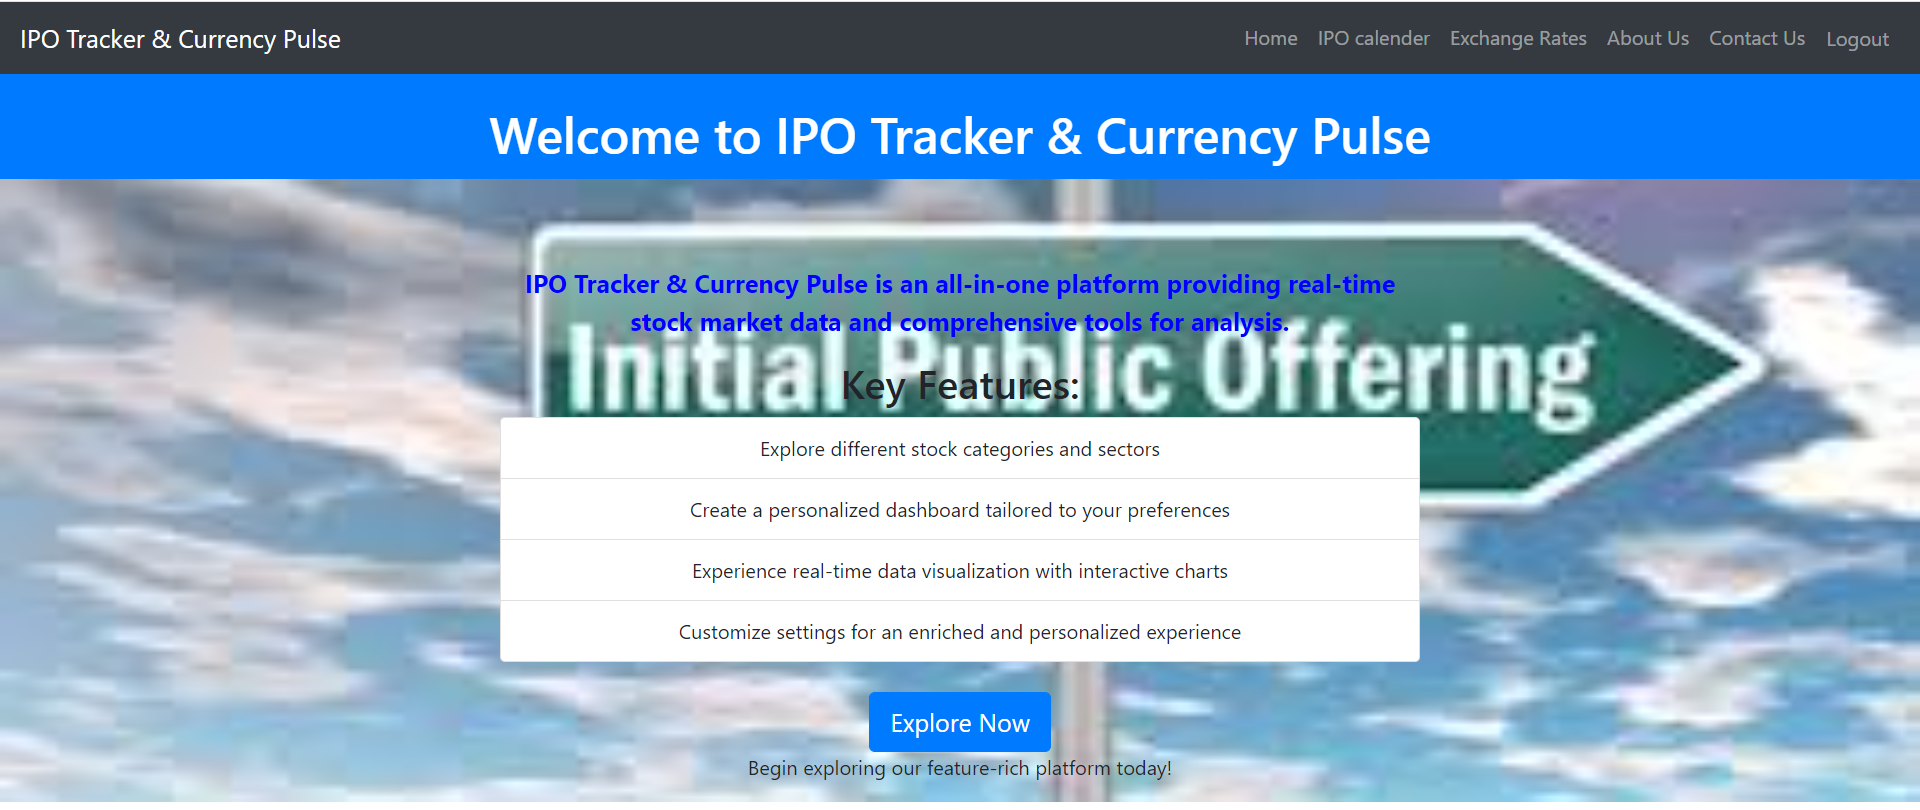
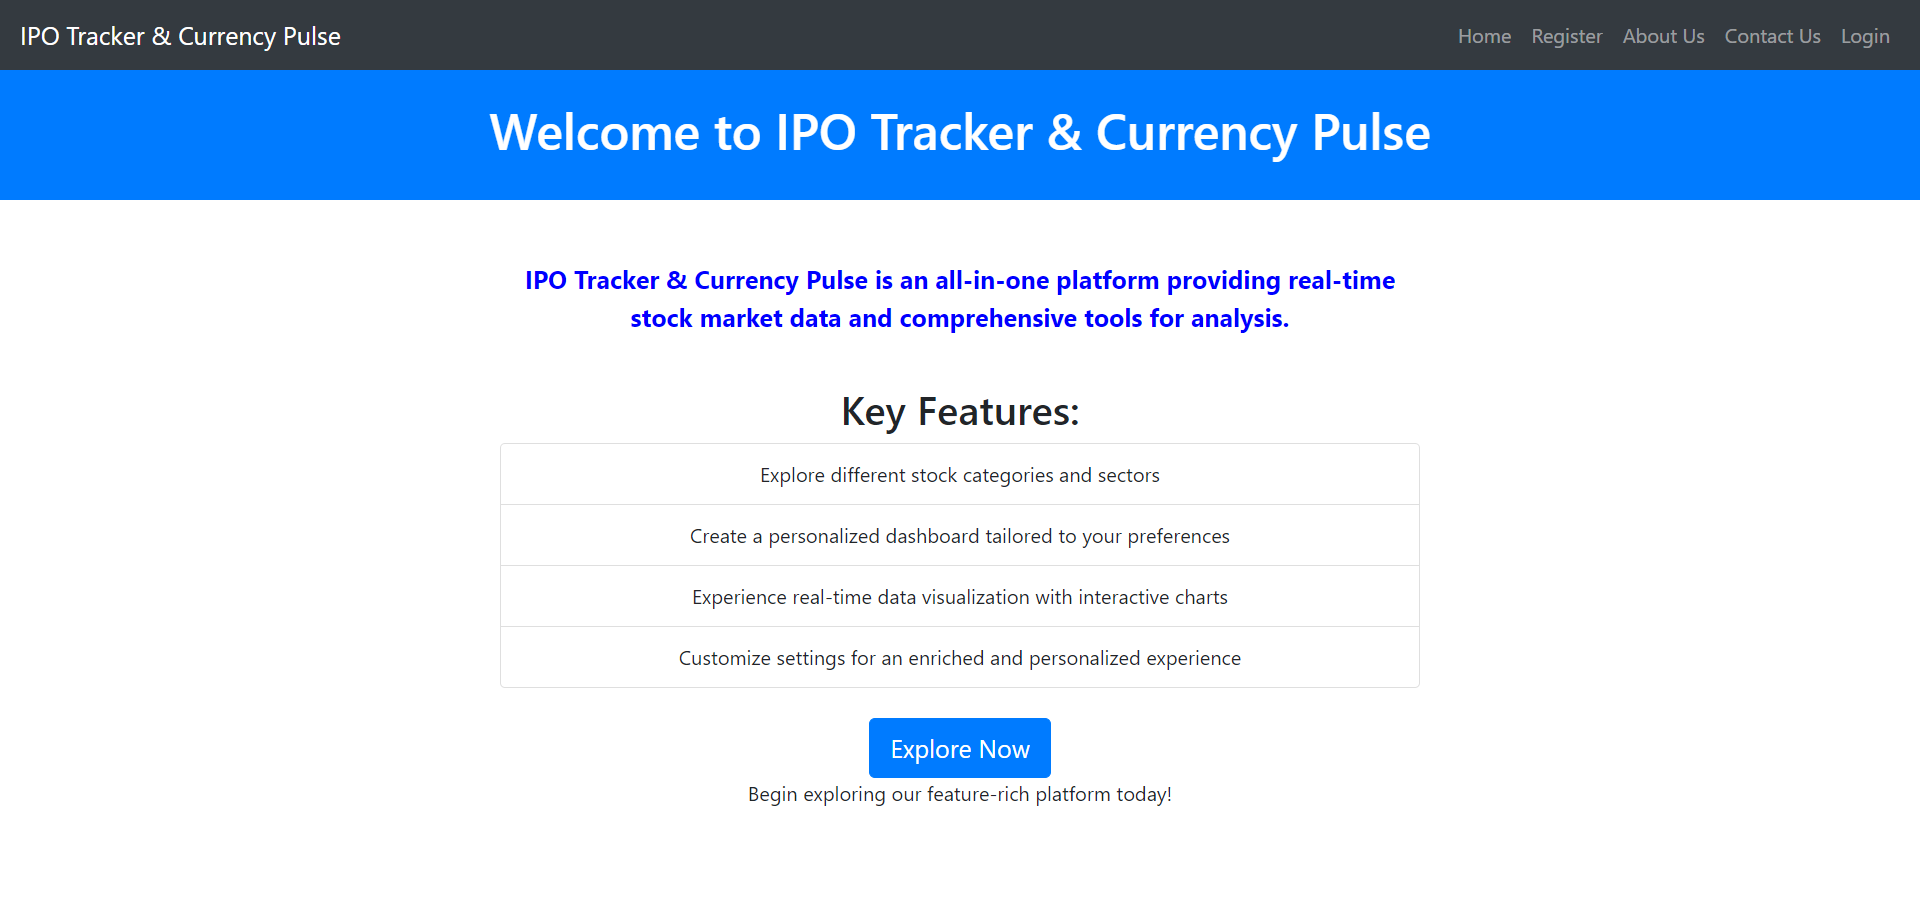
Updated image style

diff --git a/src/allComponents/AboutUs.js b/src/allComponents/AboutUs.js
@@ -16,11 +16,7 @@ function AboutUs() {
       <div className="row" style={{ maxWidth: '900px', margin: '0 auto' }}>
         <div className="column" >
           <div className="card">
-            <img
-              src="../../images/jane.jpg"
-              alt="Jane"
-              style={{ width: '100%' }}
-            />
+          <div className='jane'></div>
             <div className="container">
               <h2>Jane Doe</h2>
               <p className="title">CEO & Founder</p>
@@ -35,11 +31,7 @@ function AboutUs() {
 
         <div className="column">
           <div className="card">
-            <img
-              src="../../images/mike.jpg"
-              alt="Mike"
-              style={{ width: '100%' }}
-            />
+            <div className='mike'></div>
             <div className="container">
               <h2>Mike Ross</h2>
               <p className="title">Art Director</p>
@@ -54,11 +46,7 @@ function AboutUs() {
 
         <div className="column">
           <div className="card">
-            <img
-              src="../../images/john.jpg"
-              alt="John"
-              style={{ width: '100%' }}
-            />
+          <div className='john'></div>
             <div className="container">
               <h2>John Doe</h2>
               <p className="title">Designer</p>

diff --git a/src/App.css b/src/App.css
@@ -105,9 +105,36 @@ html {
 
 
 .bg-image {
-  background-image: url('../public/images/ipo1.jpeg');
+  /* background-image: url('../public/images/ipo1.jpeg'); */
   background-size: cover;
   background-position: center;
   padding-top: 20px;
   margin-top: -20px; 
+}
+
+.reg-img{
+  content: url('../public/images/RegImg.png');
+  width: 100%;
+  height: auto;
+  border-top-left-radius: 5px;
+  border-top-right-radius: 5px;
+}
+
+.jane{
+  content: url('../public/images/jane.jpg');
+  width: '100%'
+}
+
+.john{
+  content: url('../public/images/john.jpg');
+  width: '100%'
+}
+
+.mike{
+  content: url('../public/images/mike.jpg');
+  width: '100%'
+}
+
+.reg{
+  content: url('../public/images/reg.webp');
 }

diff --git a/src/allComponents/Register.js b/src/allComponents/Register.js
@@ -41,11 +41,7 @@ const Register = () => {
           <Col md={6} order-md={2}>
             <div style={{ padding: '20px', border: '1px solid #ccc', borderRadius: '5px' }}>
               <div style={{ textAlign: 'center', marginBottom: '20px' }}>
-                <img
-                  src="/images/RegImg.png"
-                  alt="Registration Image"
-                  style={{ width: '100%', height: 'auto', borderTopLeftRadius: '5px', borderTopRightRadius: '5px' }}
-                />
+                <div className="reg-img"></div>
               </div>
 
               <Form onSubmit={handleSubmit}>

diff --git a/src/allComponents/Login.js b/src/allComponents/Login.js
@@ -22,11 +22,7 @@ function Login() {
       <div className="container-fluid h-custom">
         <div className="row d-flex justify-content-center align-items-center h-100">
           <div className="col-md-9 col-lg-6 col-xl-5">
-            <img
-              src="https://mdbcdn.b-cdn.net/img/Photos/new-templates/bootstrap-login-form/draw2.webp"
-              className="img-fluid"
-              alt="Sample image"
-            />
+            <div className='reg img-fluid'></div>
           </div>
           <div className="col-md-8 col-lg-6 col-xl-4 offset-xl-1">
             <form>
